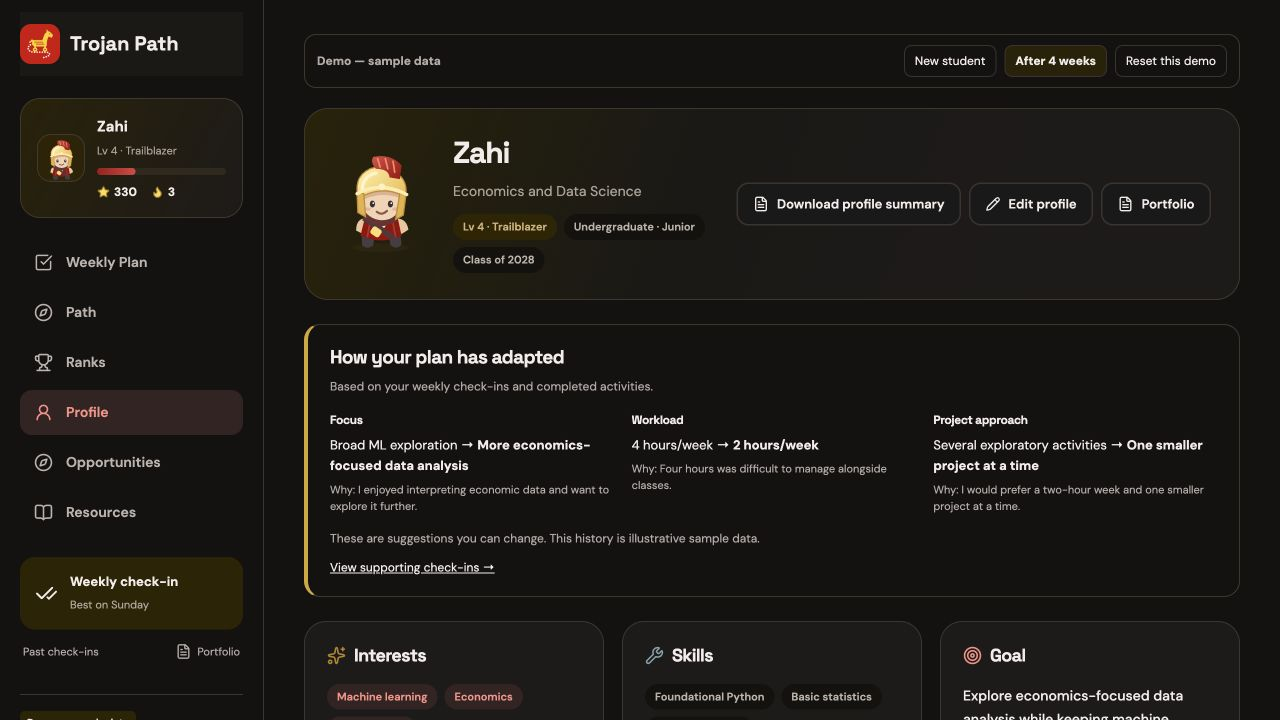
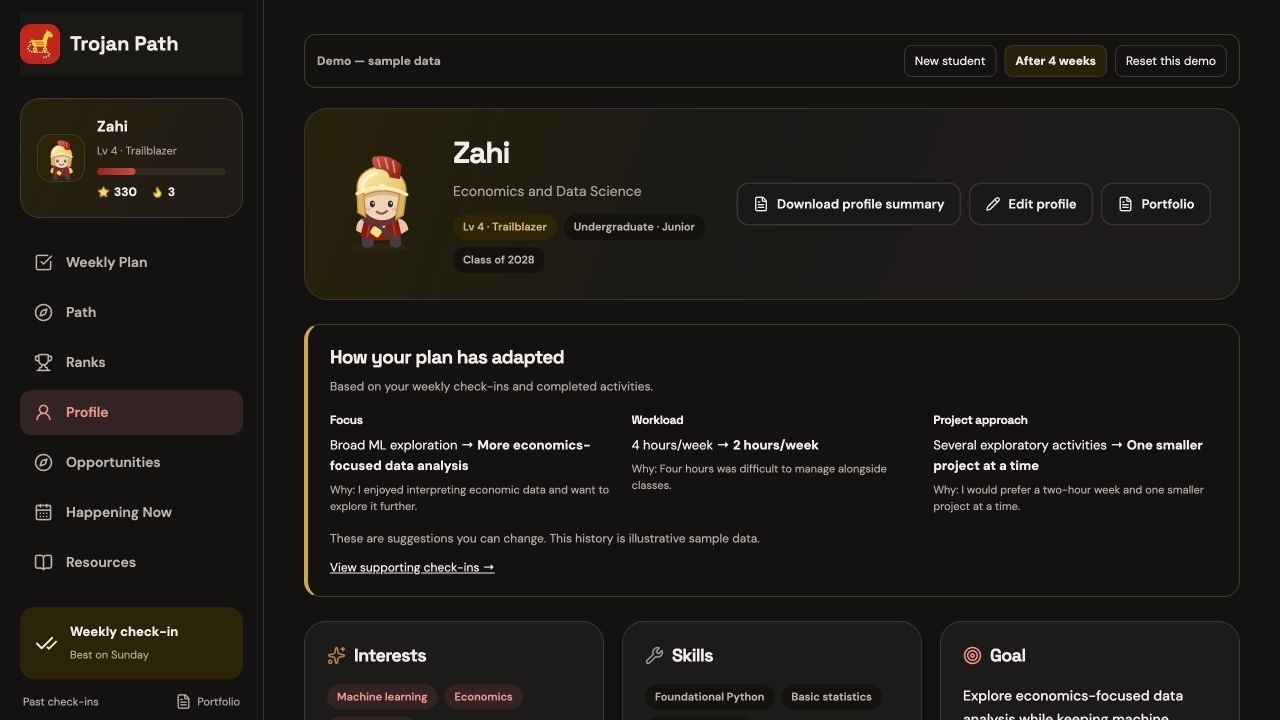
Keep the four-week demo entry on its adaptation profile

Changed region(s): [[0.0, 0.7639, 0.1875, 1.0], [0.0312, 0.7028, 0.125, 0.7333], [0.0, 0.9778, 0.0312, 1.0]]

diff --git a/src/App.tsx b/src/App.tsx
@@ -1250,7 +1250,19 @@ export default function App() {
                 }
               />
               <Route path="/resources" element={<Resources />} />
-              <Route path="*" element={<Navigate to="/progress" replace />} />
+              <Route
+                path="*"
+                element={
+                  <Navigate
+                    to={
+                      mode === "demo" && demoJourney === "four-weeks"
+                        ? "/profile"
+                        : "/progress"
+                    }
+                    replace
+                  />
+                }
+              />
             </Routes>
           )}
           <footer>

diff --git a/docs/VERIFICATION.md b/docs/VERIFICATION.md
@@ -84,3 +84,4 @@ The user's Safari tab was on `https://trojanpath-a-zianes-projects.vercel.app`, 
 - Imported the campus-event feed/matching approach from `zahitisani3-rgb/ncojoc` branch `engage-events`, commit `2422d97`, adapting its Next.js UI to this Vite app and existing Supabase backend. Kept Resources, live authentication/planning, and current XP accounting. Added optional profile-owned event notes; no database migration or new dependency.
 - Deployed public read-only `campus-events` v1. Hosted endpoint returned HTTP 200, production CORS origin, source `live`, and 138 normalized upcoming USC listings. Profile matching runs locally. Demo event cards use the labeled November 15 snapshot and no API call. Going survived browser refresh; future I went buttons were disabled. Mobile viewport 390px had document width 390px with scrollable seven-item navigation.
 - Tests cover independent storage/reset, incomplete onboarding drafts, chronological plans/check-ins/XP, budgets, verified resource IDs, adaptation evidence, matching, calendar normalization, and attendance-only Portfolio inclusion. Production build and 43 tests pass. Existing provider and database access-control tests remain green; no real accounts or saved plans were modified for this task.
+- Production browser verification confirmed the automatic Vercel deployment exposes both journey choices and the imported Happening Now page. It also caught a first-entry wildcard redirect racing the four-week destination; the fallback route now respects the selected journey. Replayed welcome → Try demo → See Zahi after 4 weeks in the isolated production build and verified it opens `/profile` with the adaptation card, without an XP animation.
